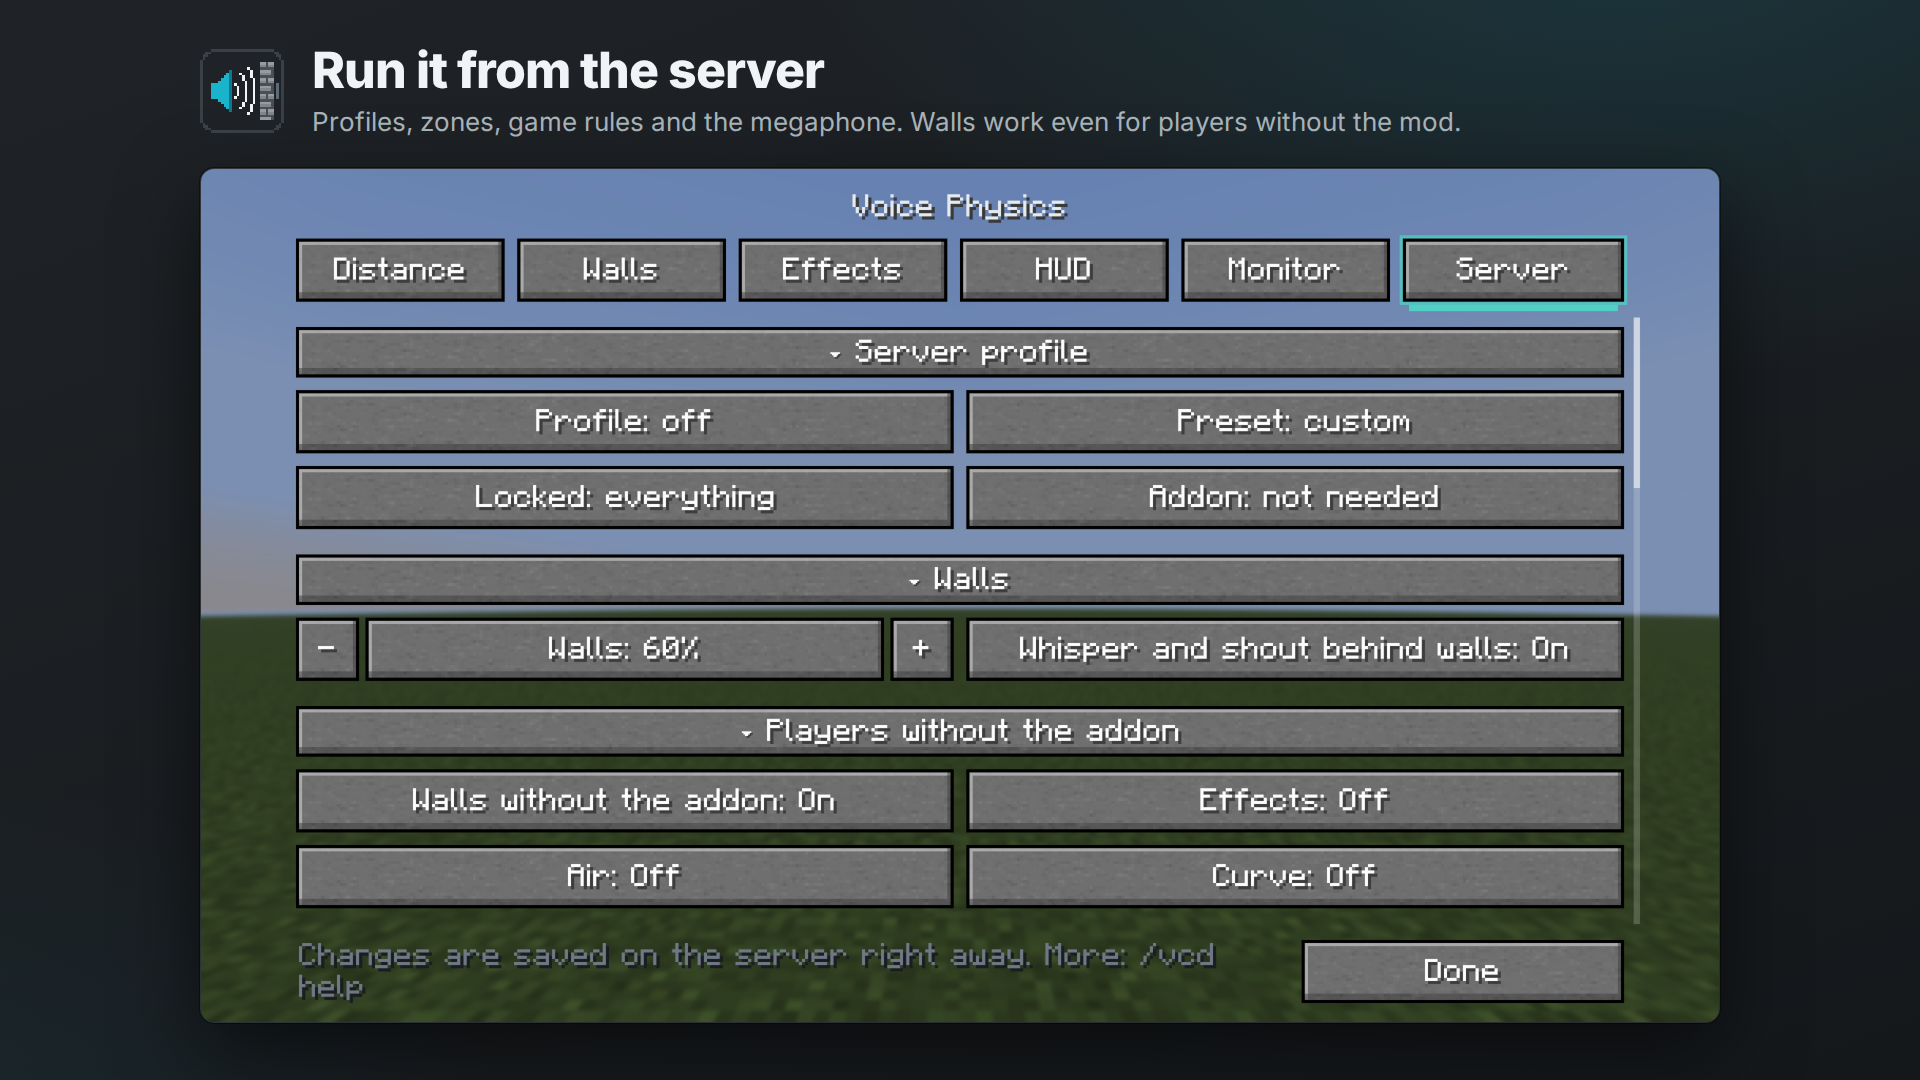
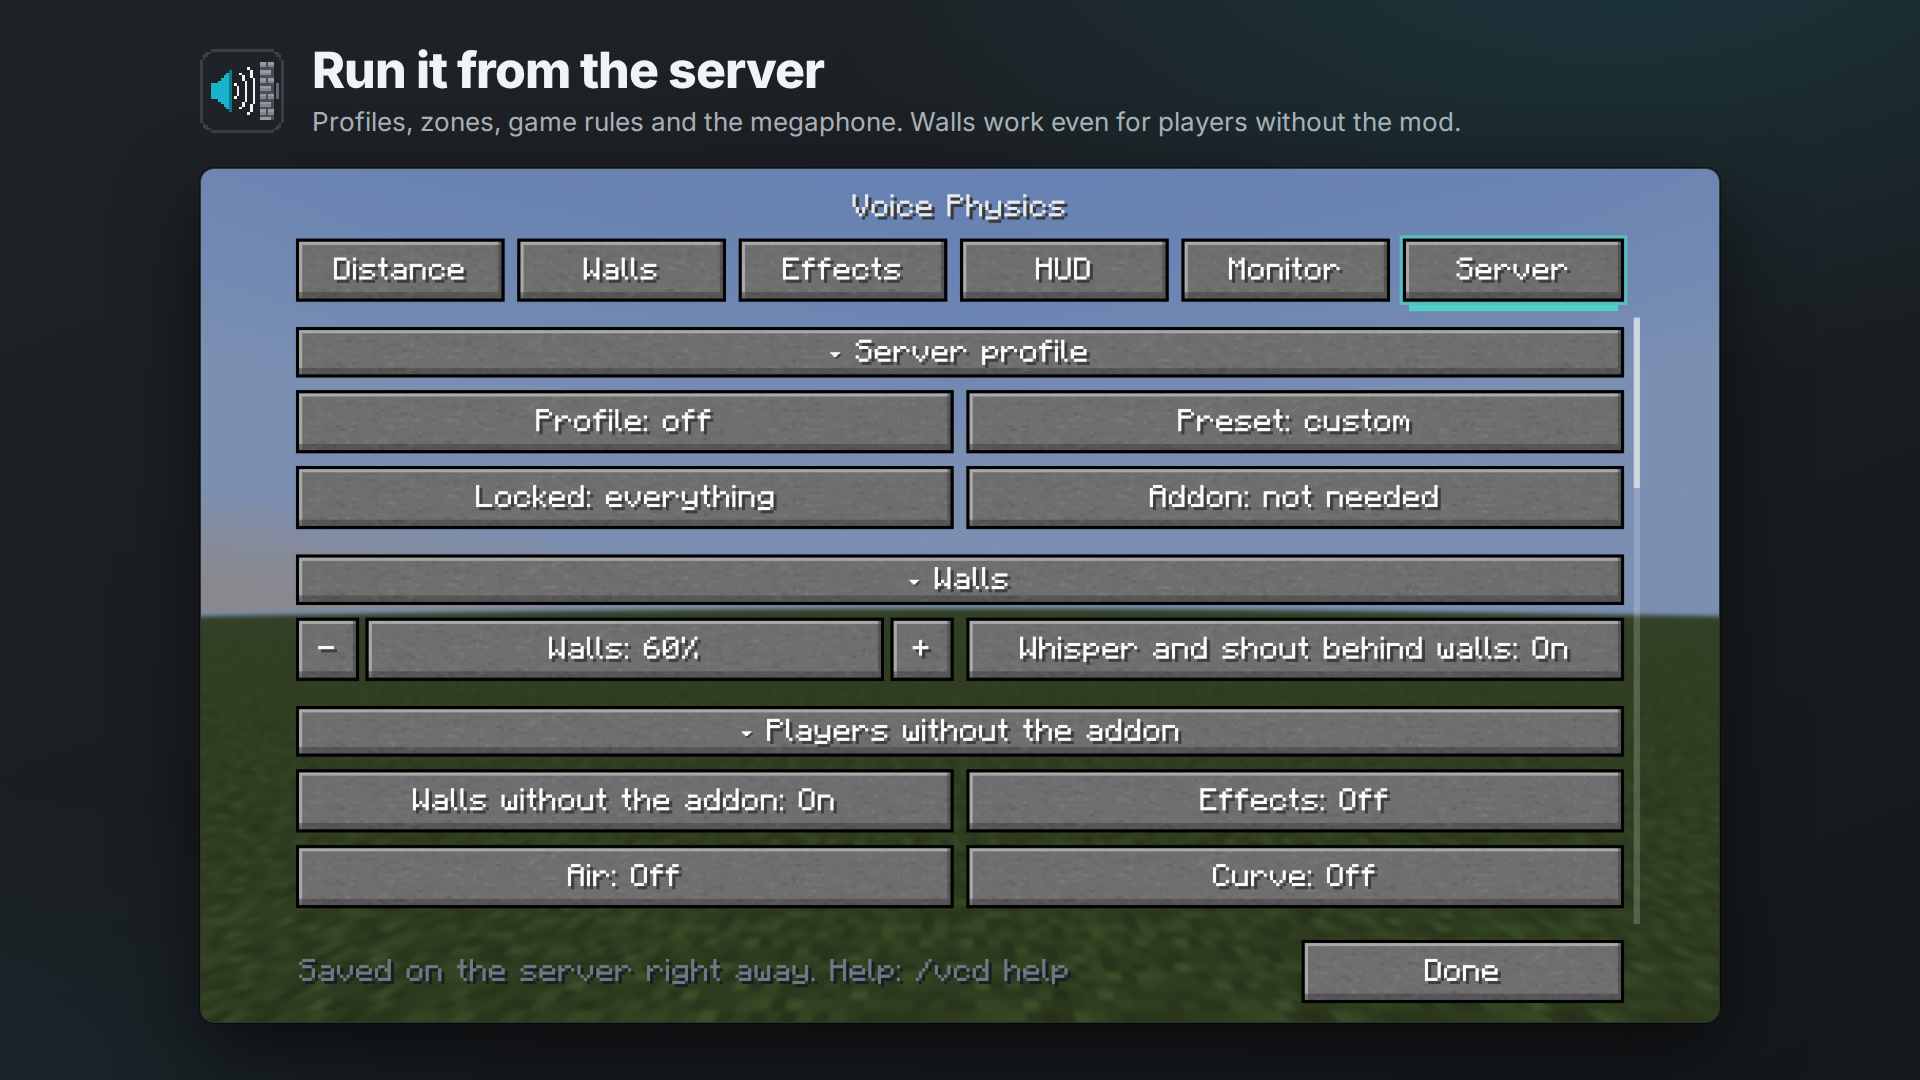
2.12.2: Server tab hint fits; Monitor tab in the store shots (#61)
The Server tab hint is shorter and a command is never split across lines. The store shots and gallery get a Monitor tab picture. Version 2.12.2.

Changed region(s): [[0.1562, 0.8556, 0.625, 0.9472]]

diff --git a/shared/gametest/src/java/com/kasper/vcdistance/gametest/SettingsScreenGameTest.java b/shared/gametest/src/java/com/kasper/vcdistance/gametest/SettingsScreenGameTest.java
@@ -9,7 +9,10 @@ import com.kasper.vcdistance.DistanceConfig;
 import com.kasper.vcdistance.LinkProtocol;
 import com.kasper.vcdistance.ServerSettings;
 import com.kasper.vcdistance.Zone;
+import com.kasper.vcdistance.NearbyPlayers;
+import com.kasper.vcdistance.VoiceState;
 import com.kasper.vcdistance.client.SettingsScreen;
+import com.kasper.vcdistance.client.SpeakerTicker;
 import net.fabricmc.fabric.api.client.gametest.v1.FabricClientGameTest;
 import net.fabricmc.fabric.api.client.gametest.v1.context.ClientGameTestContext;
 import net.fabricmc.fabric.api.client.gametest.v1.context.TestSingleplayerContext;
@@ -85,6 +88,36 @@ public class SettingsScreenGameTest implements FabricClientGameTest {
     }
 
     /**
+     * A few players around you for the Monitor tab: two talking (one whispering), the rest quiet, one with
+     * the sound off. Call it right before the shot: a voice counts as talking for a moment after its last frame.
+     */
+    private static void pretendMonitor() {
+        SpeakerTicker.frozen = true;
+        String[] names = {"Alex", "Steve", "Sam", "Kai", "Noor"};
+        double[] distance = {6.4, 13.8, 21.5, 29.0, 37.2};
+        double[] bearing = {-35, 70, 150, -110, 10};
+        java.util.List<NearbyPlayers.Player> nearby = new java.util.ArrayList<>();
+        java.util.Map<java.util.UUID, VoiceState> states = new java.util.LinkedHashMap<>();
+        short[] pcm = new short[960];
+        for (int i = 0; i < pcm.length; i++) {
+            pcm[i] = (short) (6000 * Math.sin(i * 2 * Math.PI * 220 / 48000.0));
+        }
+        for (int i = 0; i < names.length; i++) {
+            java.util.UUID id = java.util.UUID.nameUUIDFromBytes(("store-" + names[i]).getBytes(java.nio.charset.StandardCharsets.UTF_8));
+            nearby.add(new NearbyPlayers.Player(id, names[i], distance[i], bearing[i]));
+            states.put(id, i == 3 ? VoiceState.SOUND_OFF : VoiceState.CONNECTED);
+            if (i < 2) {
+                com.kasper.vcdistance.SpeakerRegistry.Speaker s = AudioDistancePlugin.SPEAKERS.onEntityFrame(id, id, i == 1, 48.0F, pcm);
+                s.setDisplayName(names[i]);
+                s.setDistance(distance[i], System.nanoTime());
+                s.setBearing(bearing[i]);
+            }
+        }
+        AudioDistancePlugin.NEARBY.update(nearby);
+        AudioDistancePlugin.LINK.onNearby(LinkProtocol.nearby(states));
+    }
+
+    /**
      * A server with a long change log that answers the Log screen as a real one does, so the screen fills
      * its height and the pager has somewhere to go.
      */
@@ -141,7 +174,10 @@ public class SettingsScreenGameTest implements FabricClientGameTest {
             });
             context.waitTicks(2);
             context.takeScreenshot("settings-" + name + "-end");
-            context.runOnClient(client -> TestScreens.open(client, null));
+            context.runOnClient(client -> {
+                TestScreens.open(client, null);
+                SpeakerTicker.frozen = false;
+            });
             context.waitTicks(1);
         }
         // The folded parts open: the materials, the Server tab's sections and one of its zones
@@ -201,12 +237,15 @@ public class SettingsScreenGameTest implements FabricClientGameTest {
             AudioDistancePlugin.CONFIG.setDirectivityEnabled(true);
         });
         for (SettingsScreen.Tab tab : new SettingsScreen.Tab[]{SettingsScreen.Tab.DISTANCE, SettingsScreen.Tab.WALLS,
-                SettingsScreen.Tab.EFFECTS, SettingsScreen.Tab.HUD, SettingsScreen.Tab.SERVER}) {
+                SettingsScreen.Tab.EFFECTS, SettingsScreen.Tab.HUD, SettingsScreen.Tab.MONITOR, SettingsScreen.Tab.SERVER}) {
             context.runOnClient(client -> {
                 SettingsScreen.openOn(tab);
                 TestScreens.open(client, new AudioDistanceScreen(null));
             });
             parkCursor(context);
+            if (tab == SettingsScreen.Tab.MONITOR) {
+                context.runOnClient(client -> pretendMonitor());
+            }
             context.takeScreenshot("store-" + tab.name().toLowerCase(java.util.Locale.ROOT));
             context.runOnClient(client -> TestScreens.open(client, null));
             context.waitTicks(1);

diff --git a/shared/mc-all/src/main/java/com/kasper/vcdistance/client/SettingsScreen.java b/shared/mc-all/src/main/java/com/kasper/vcdistance/client/SettingsScreen.java
@@ -2759,7 +2759,7 @@ public abstract class SettingsScreen extends com.kasper.vcdistance.compat.BaseSc
      */
     private static List<Component> wrap(Component text, int maxWidth, int maxLines, java.util.function.ToIntFunction<Component> width) {
         List<Component> lines = new ArrayList<>();
-        String[] words = text.getString().split(" ");
+        String[] words = keepCommandsWhole(text.getString().split(" "));
         StringBuilder line = new StringBuilder();
         int i = 0;
         while (i < words.length && lines.size() < maxLines - 1) {
@@ -2791,6 +2791,19 @@ public abstract class SettingsScreen extends com.kasper.vcdistance.compat.BaseSc
             lines.add(last);
         }
         return lines;
+    }
+
+    /** A command and its first word stay on one line: "/vcd help" is never split into "/vcd" and "help". */
+    private static String[] keepCommandsWhole(String[] words) {
+        List<String> out = new ArrayList<>();
+        for (int i = 0; i < words.length; i++) {
+            if (words[i].length() > 1 && words[i].startsWith("/") && i + 1 < words.length) {
+                out.add(words[i] + " " + words[++i]);
+            } else {
+                out.add(words[i]);
+            }
+        }
+        return out.toArray(new String[0]);
     }
 
     /** Draws a wrapped text from {@code y} down, one line every 10 pixels; returns the y under it. */

diff --git a/shared/mc-all/src/main/java/com/kasper/vcdistance/client/SpeakerTicker.java b/shared/mc-all/src/main/java/com/kasper/vcdistance/client/SpeakerTicker.java
@@ -37,6 +37,9 @@ public final class SpeakerTicker {
     private static final int PATHS_PER_TICK = 2;
     private static final int PATH_NODES = 1200;
 
+    /** Set by the store screenshots: the ticker leaves the made-up monitor as it is. */
+    public static volatile boolean frozen;
+
     private final WorldAccess access;
     /** Block lookups for this tick's wall rays' ways round, shared so each block is read once. */
     private final GridCache grid = new GridCache();
@@ -69,6 +72,9 @@ public final class SpeakerTicker {
     }
 
     private void tickUnsafe() {
+        if (frozen) {
+            return;
+        }
         Object world = access.worldIdentity();
         if (world != lastWorld) {
             // Joined, left or switched world/server: forget everything tied to the old one

diff --git a/README.ru.md b/README.ru.md
@@ -14,9 +14,9 @@
 |---|---|---|---|
 | ![Вкладка «Дистанция»: график кривой и пресеты](docs/images/ui-distance.png) | ![Вкладка «Стены»: сила и материалы](docs/images/ui-walls.png) | ![Вкладка «Эффекты»: эхо, вода, дождь](docs/images/ui-effects.png) | ![Вкладка HUD: кто говорит и кто слышит вас](docs/images/ui-hud.png) |
 
-| Сервер | Журнал изменений | Настройки закреплены сервером |
-|---|---|---|
-| ![Вкладка «Сервер» для админов](docs/images/ui-server.png) | ![Журнал изменений сервера на отдельном экране](docs/images/ui-log.png) | ![Настройки закреплены сервером](docs/images/ui-locked.png) |
+| Монитор | Сервер | Журнал изменений | Настройки закреплены сервером |
+|---|---|---|---|
+| ![Вкладка «Монитор»: игроки рядом и как громко вы их слышите](docs/images/ui-monitor.png) | ![Вкладка «Сервер» для админов](docs/images/ui-server.png) | ![Журнал изменений сервера на отдельном экране](docs/images/ui-log.png) | ![Настройки закреплены сервером](docs/images/ui-locked.png) |
 
 ## Содержание
 
@@ -159,9 +159,9 @@
 
 | Загрузчик | Minecraft | Файл | Java | Simple Voice Chat |
 |---|---|---|---|---|
-| **Fabric / Quilt** | 1.16.5 – 26.3 | `voice-physics-fabric-2.12.1+mc1.16.5-26.x.jar` | 8+ (какая нужна этому Minecraft) | 2.4.0+ (2.5.0+ с 1.20.5, 2.6.0+ на 26.x) |
-| **Forge / NeoForge** | Forge 1.16.5 – 26.3, NeoForge 1.20.1 – 26.3 | `voice-physics-forge-neoforge-2.12.1+mc1.16.5-26.x.jar` | 8+ (какая нужна этому Minecraft) | 2.4.0+ (2.5.0+ с 1.20.5, 2.6.0+ на 26.x) |
-| **Paper / Purpur / Folia / Spigot / Bukkit** | 1.16.5 – 26.3 | `voice-physics-bukkit-2.12.1.jar` | 8+ (17+ с 1.18) | версия для Bukkit |
+| **Fabric / Quilt** | 1.16.5 – 26.3 | `voice-physics-fabric-2.12.2+mc1.16.5-26.x.jar` | 8+ (какая нужна этому Minecraft) | 2.4.0+ (2.5.0+ с 1.20.5, 2.6.0+ на 26.x) |
+| **Forge / NeoForge** | Forge 1.16.5 – 26.3, NeoForge 1.20.1 – 26.3 | `voice-physics-forge-neoforge-2.12.2+mc1.16.5-26.x.jar` | 8+ (какая нужна этому Minecraft) | 2.4.0+ (2.5.0+ с 1.20.5, 2.6.0+ на 26.x) |
+| **Paper / Purpur / Folia / Spigot / Bukkit** | 1.16.5 – 26.3 | `voice-physics-bukkit-2.12.2.jar` | 8+ (17+ с 1.18) | версия для Bukkit |
 
 - **Fabric**, **Forge** и **NeoForge** — полный аддон, для клиента и сервера. Для Fabric нужен [Fabric API](https://modrinth.com/mod/fabric-api); [Mod Menu](https://modrinth.com/mod/modmenu) — по желанию. На Forge для 1.21.6 – 1.21.7 нет HUD голоса: этот Forge не умеет его добавлять. NeoForge 1.20.1 — ответвление Forge 1.20.1 и загружает файл как Forge. На NeoForge 1.20.4 нужен NeoForge 20.4.80 или новее. Версии Forge: 1.16.5, 1.17.1, 1.18.2, 1.19.2, 1.19.4 и 1.20 – 26.3 (1.20.5 и 1.21.2 Forge пропустил).
 - **Один файл на много версий.** Всего файлов три. В файле для Fabric есть сборка для каждой версии Minecraft от 1.16.5 до 26.3, в файле для Forge / NeoForge — для каждой версии Forge и NeoForge; при запуске аддон выбирает сборку запущенной игры. Каждой сборке нужна та Java, которая нужна её Minecraft, не новее.

diff --git a/README.md b/README.md
@@ -14,9 +14,9 @@ An addon for [Simple Voice Chat](https://modrinth.com/plugin/simple-voice-chat) 
 |---|---|---|---|
 | ![Distance tab: curve graph and presets](docs/images/ui-distance.png) | ![Walls tab: strength and materials](docs/images/ui-walls.png) | ![Effects tab: echo, water, rain](docs/images/ui-effects.png) | ![HUD tab: who is talking and who hears you](docs/images/ui-hud.png) |
 
-| Server | Change log | Settings locked by the server |
-|---|---|---|
-| ![Server tab for admins](docs/images/ui-server.png) | ![The server's change log on its own screen](docs/images/ui-log.png) | ![Settings locked by the server](docs/images/ui-locked.png) |
+| Monitor | Server | Change log | Settings locked by the server |
+|---|---|---|---|
+| ![Monitor tab: players nearby and how loud you hear them](docs/images/ui-monitor.png) | ![Server tab for admins](docs/images/ui-server.png) | ![The server's change log on its own screen](docs/images/ui-log.png) | ![Settings locked by the server](docs/images/ui-locked.png) |
 
 ## Contents
 
@@ -160,9 +160,9 @@ With the addon on both sides the client muffles walls itself and the server skip
 
 | Loader | Minecraft | File | Java | Simple Voice Chat |
 |---|---|---|---|---|
-| **Fabric / Quilt** | 1.16.5 – 26.3 | `voice-physics-fabric-2.12.1+mc1.16.5-26.x.jar` | 8+ (what that Minecraft needs) | 2.4.0+ (2.5.0+ on 1.20.5+, 2.6.0+ on 26.x) |
-| **Forge / NeoForge** | Forge 1.16.5 – 26.3, NeoForge 1.20.1 – 26.3 | `voice-physics-forge-neoforge-2.12.1+mc1.16.5-26.x.jar` | 8+ (what that Minecraft needs) | 2.4.0+ (2.5.0+ on 1.20.5+, 2.6.0+ on 26.x) |
-| **Paper / Purpur / Folia / Spigot / Bukkit** | 1.16.5 – 26.3 | `voice-physics-bukkit-2.12.1.jar` | 8+ (17+ on 1.18+) | Bukkit version |
+| **Fabric / Quilt** | 1.16.5 – 26.3 | `voice-physics-fabric-2.12.2+mc1.16.5-26.x.jar` | 8+ (what that Minecraft needs) | 2.4.0+ (2.5.0+ on 1.20.5+, 2.6.0+ on 26.x) |
+| **Forge / NeoForge** | Forge 1.16.5 – 26.3, NeoForge 1.20.1 – 26.3 | `voice-physics-forge-neoforge-2.12.2+mc1.16.5-26.x.jar` | 8+ (what that Minecraft needs) | 2.4.0+ (2.5.0+ on 1.20.5+, 2.6.0+ on 26.x) |
+| **Paper / Purpur / Folia / Spigot / Bukkit** | 1.16.5 – 26.3 | `voice-physics-bukkit-2.12.2.jar` | 8+ (17+ on 1.18+) | Bukkit version |
 
 - **Fabric**, **Forge** and **NeoForge** are the full addon, for the client and the server. Fabric needs [Fabric API](https://modrinth.com/mod/fabric-api); [Mod Menu](https://modrinth.com/mod/modmenu) is optional. On Forge for 1.21.6 – 1.21.7 the voice HUD is off: that Forge cannot add it. NeoForge 1.20.1 is a fork of Forge 1.20.1 and loads the file as Forge. On NeoForge 1.20.4 it needs NeoForge 20.4.80 or newer. Forge versions: 1.16.5, 1.17.1, 1.18.2, 1.19.2, 1.19.4 and 1.20 – 26.3 (Forge skipped 1.20.5 and 1.21.2).
 - **One file covers many versions.** So there are three files in all. The Fabric file holds a build for every Minecraft version from 1.16.5 to 26.3, and the Forge / NeoForge file one for every Forge and NeoForge version; at start the addon picks the one of the running game. Each build needs the Java its Minecraft needs, nothing newer.

diff --git a/CHANGELOG.md b/CHANGELOG.md
@@ -6,6 +6,18 @@ The format is based on [Keep a Changelog](https://keepachangelog.com/en/1.1.0/),
 
 *Все заметные изменения проекта описываются в этом файле. Каждая версия описана сначала на английском, затем на русском.*
 
+## [2.12.2] - 2026-10-17
+
+### English
+
+#### Fixed
+- **The hint at the bottom of the Server tab fits on one line.** It is shorter now, and a command in it is no longer split across two lines.
+
+### Русский
+
+#### Исправлено
+- **Подсказка внизу вкладки «Сервер» помещается в одну строку.** Она стала короче, и команда в ней больше не разрывается на две строки.
+
 ## [2.12.1] - 2026-10-17
 
 ### English
